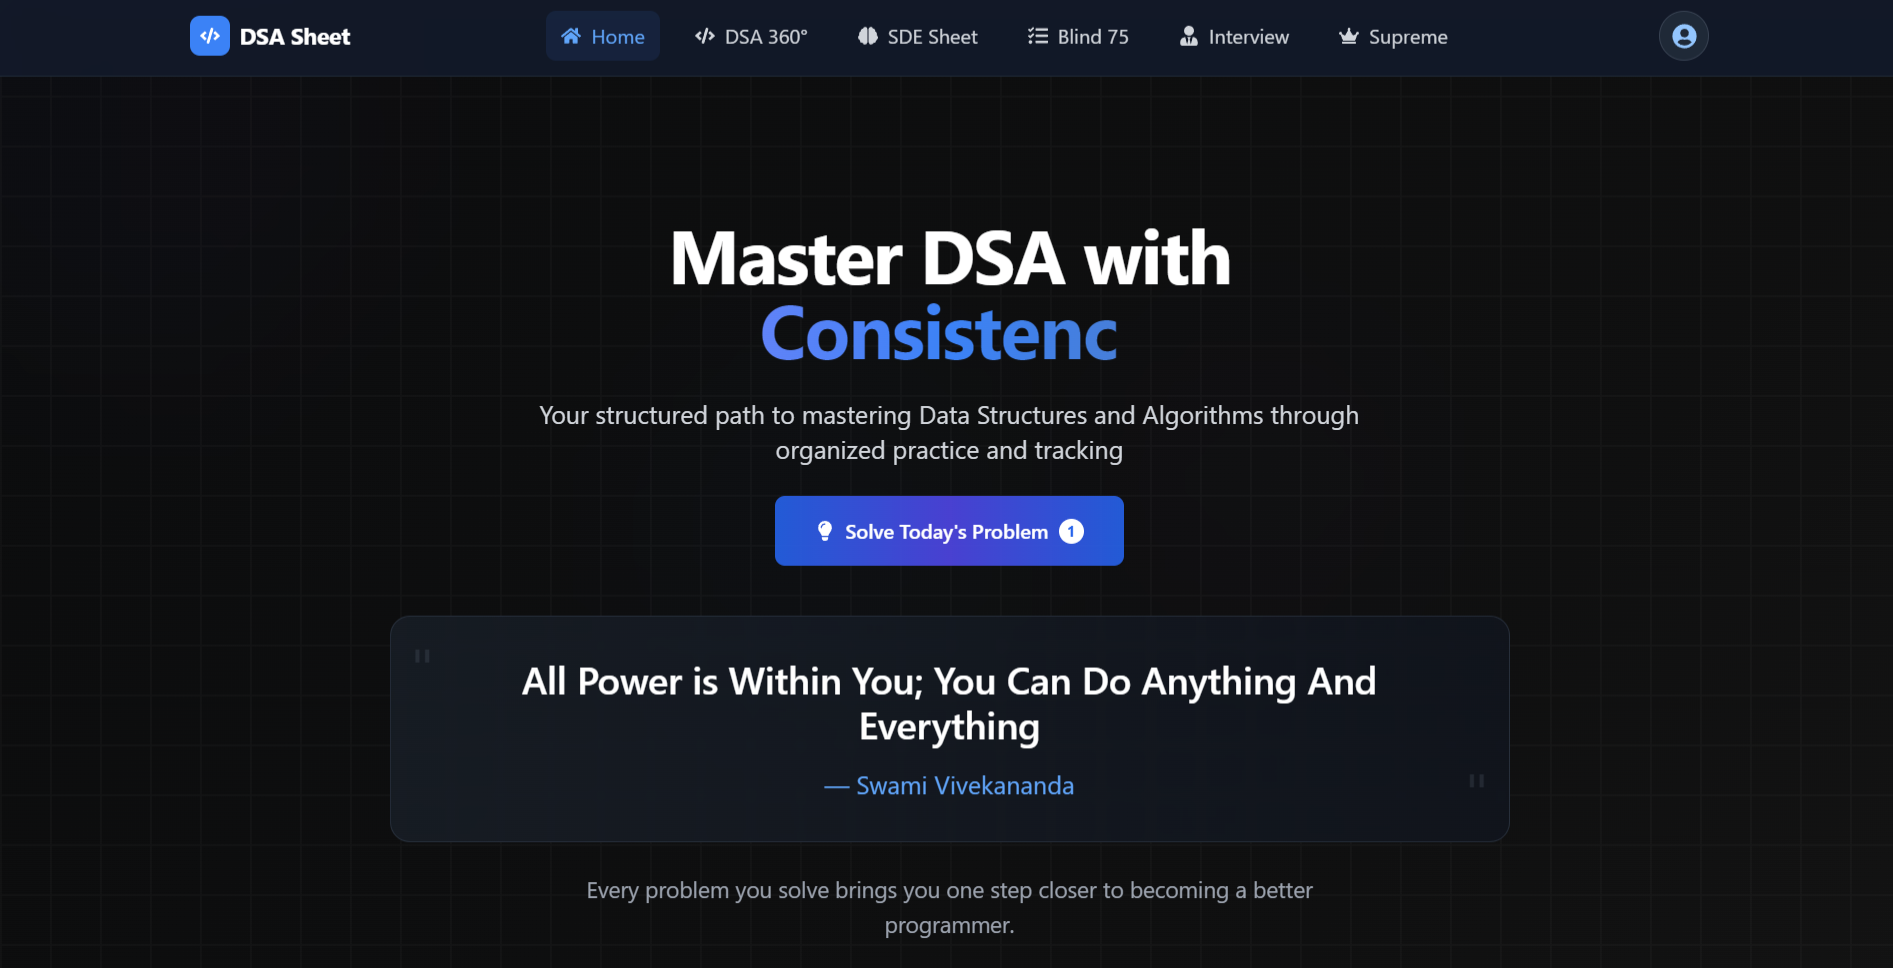
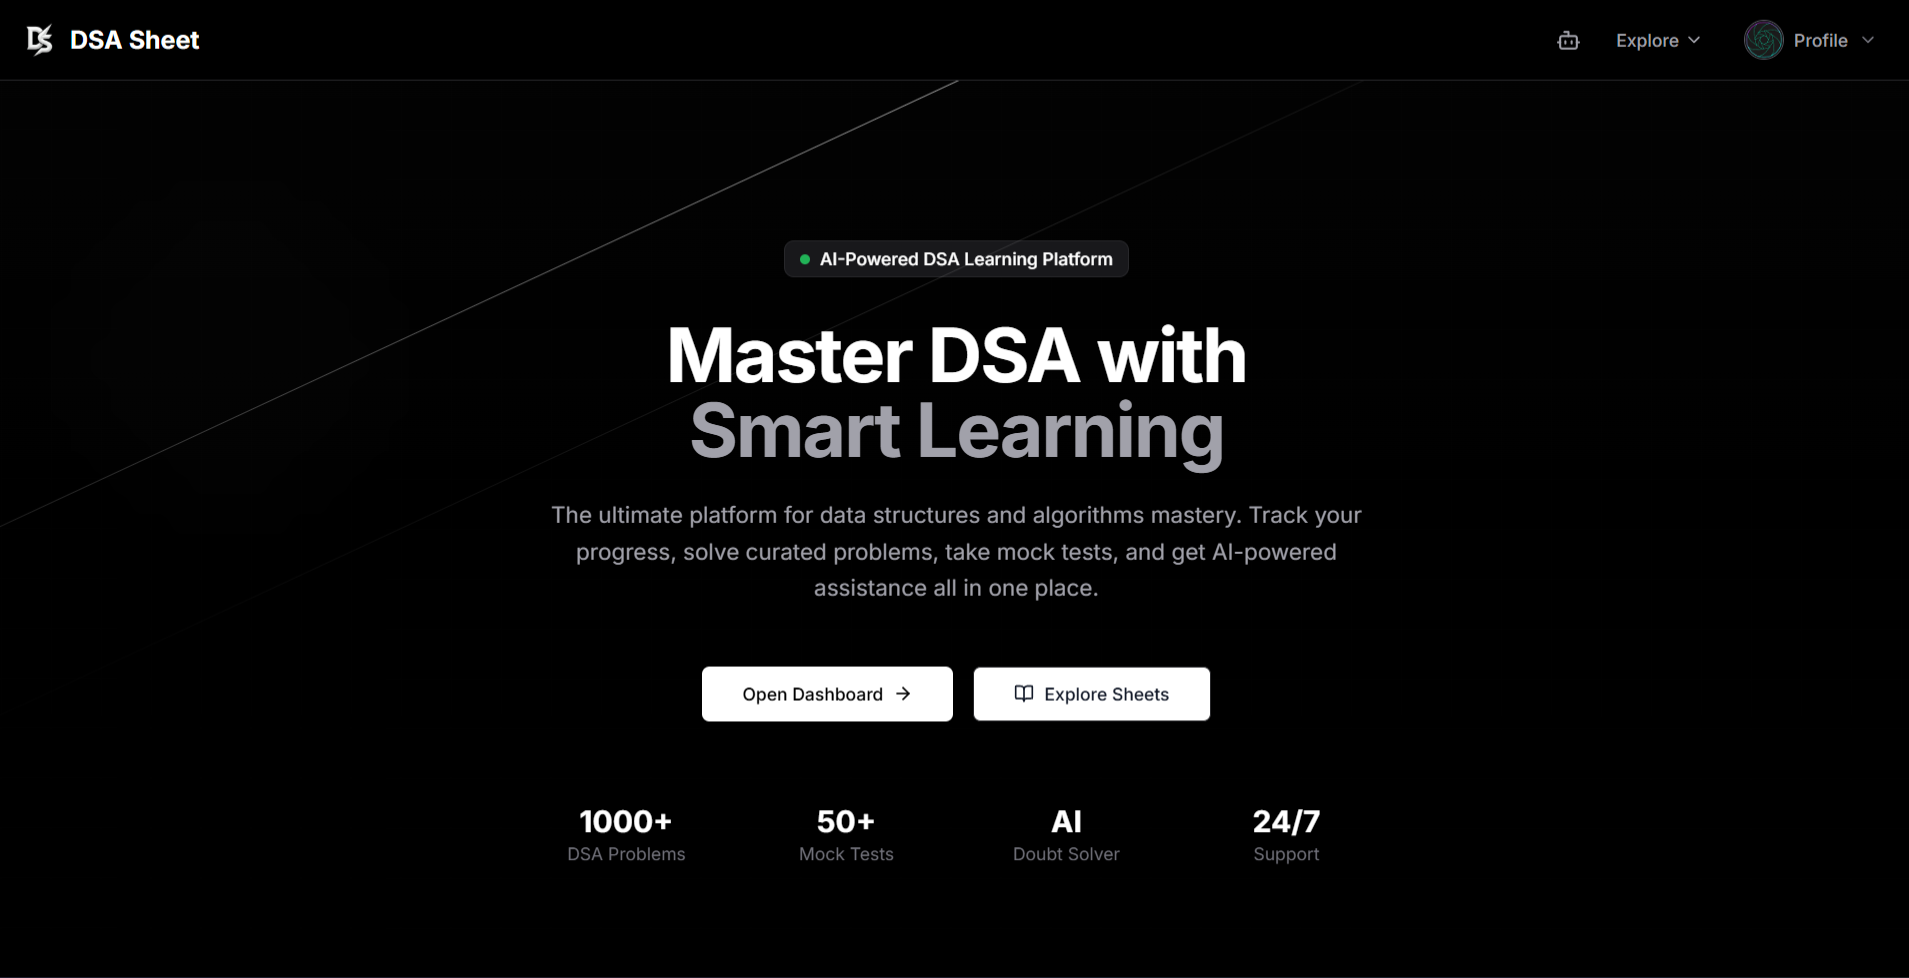
updated the dsasheet.site project

Changed region(s): [[0.0, 0.2169, 0.8104, 1.0], [0.0, 0.0, 1.0, 0.093], [0.7169, 0.9917, 0.8727, 1.0]]

diff --git a/src/data/projects.js b/src/data/projects.js
@@ -162,29 +162,45 @@ This project reflects real-world full-stack architecture, with special attention
 Meetly demonstrates strong expertise in full-stack real-time communication systems, authentication workflows, and modern React development with fast builds via Vite. It’s a technically challenging and complete product reflecting real-world applications like Zoom or Google Meet.`,
   },
   {
-    id: "dsa-sheet",
+    id: "dsa-sheet-tracker",
     title: "DSA Sheet Tracker",
     description:
-      "An interactive platform for tracking progress through curated DSA problem sets categorized by topic and difficulty.",
+      "A comprehensive full-stack platform for tracking progress across multiple curated DSA problem sheets with AI-powered learning assistance.",
     image: dsasheet,
-    tags: ["React", "LocalStorage", "Bootstrap", "JavaScript"],
-    demoLink: "https://www.dsasheet.site/", // Replace with your actual demo link
-    githubLink: "https://github.com/ansh-kmar9/DSA-Sheet", // Replace with your actual GitHub repo
-    featured: false,
-    role: "Frontend Developer",
+    tags: [
+      "React",
+      "Node.js",
+      "MongoDB",
+      "Express.js",
+      "TailwindCSS",
+      "Google OAuth",
+      "AI Integration",
+    ],
+    demoLink: "https://www.dsasheet.site/sheet",
+    githubLink: "https://github.com/ansh-kmar9/Ai-Powred-Dsa-Sheet",
+    featured: true,
+    role: "Full-Stack Developer",
     challenges:
-      "Managing persistent user progress without backend integration and providing a smooth user experience for navigating through problems.",
+      "Building a scalable full-stack application with user authentication, progress persistence across multiple devices, real-time progress tracking, and integrating AI-powered doubt solving while maintaining optimal performance.",
     solutions:
-      "Used LocalStorage for progress tracking and created dynamic filters, topic-wise breakdowns, and progress indicators for better usability.",
-    longDescription: `This DSA Sheet Tracker helps aspiring programmers systematically practice and track their data structures and algorithms journey. Features include:
+      "Implemented Google OAuth for secure authentication, MongoDB for scalable data storage, React Context for state management, and integrated Google AI API for intelligent doubt resolution. Used responsive design patterns and efficient data structures for smooth user experience.",
+    longDescription: `A comprehensive DSA learning platform designed to help developers systematically master data structures and algorithms. The platform offers a complete learning ecosystem with the following features:
+
+  • **Multiple Curated Sheets**: Track progress across 5 different problem collections - DSA360 (180 problems), SDE Sheet (389 problems), Blind75 (75 essential problems), Interview Questions, and Supreme Sheet
   
-    • Curated list of DSA problems categorized by topic (e.g., Arrays, Trees, Graphs, etc.)  
-    • Status tracking for solved, unsolved, and bookmarked problems  
-    • Filtering by difficulty and topic  
-    • Visual progress indicators for each category  
-    • Responsive UI for mobile and desktop  
-    • Persistent local storage to save user progress  
-    • Clean and minimal design focused on learning efficiency`,
+  • **Smart Progress Tracking**: Persistent progress tracking with visual indicators, completion percentages, and detailed statistics across all sheets
+  
+  • **AI-Powered Doubt Solver**: Integrated Google AI for instant help with problem-solving, explanations, and coding assistance
+  
+  • **Interactive Dashboard**: Real-time overview of learning progress, achievements, badges, and personalized recommendations
+  
+  • **Authentication & Security**: Google OAuth integration for secure user management and cross-device progress synchronization
+  
+  • **Responsive Design**: Optimized for desktop and mobile with dark theme and clean, distraction-free interface
+  
+  • **Advanced Features**: Question filtering by difficulty and topic, search functionality, reset options, and detailed progress analytics
+  
+  • **Modern Tech Stack**: Built with React + Vite, Express.js, MongoDB, TailwindCSS, and deployed on Vercel + Render for optimal performance`,
   },
   {
     id: "inquira",
